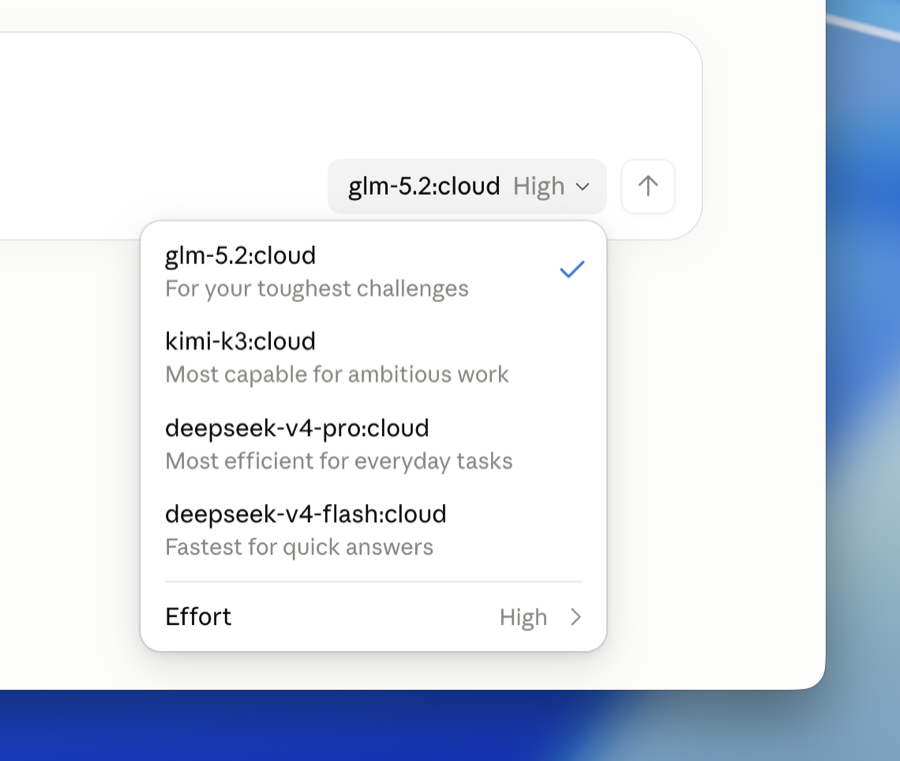
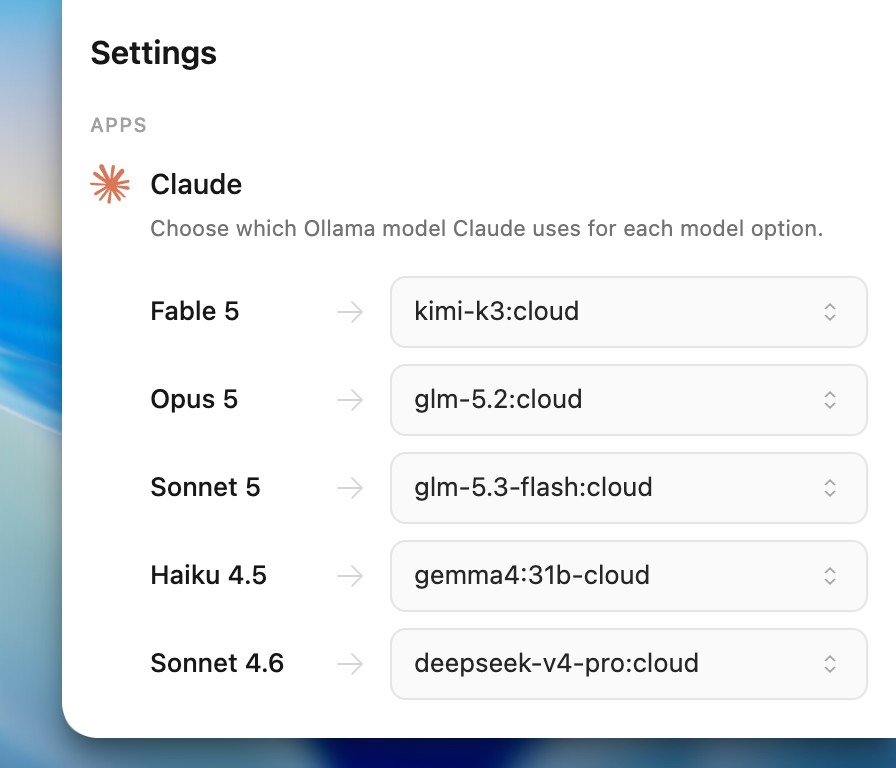
app: clarify Claude connection dialog (#18498)

diff --git a/app/ui/app/src/components/Onboarding.tsx b/app/ui/app/src/components/Onboarding.tsx
@@ -406,13 +406,13 @@ export function ClaudeConnectedIntro({ onDone }: { onDone: () => void }) {
       >
         <img
           src="/claude-connected.png"
-          alt="Ollama models in the Claude model picker"
-          width={900}
-          height={761}
+          alt="Example Claude model mappings in Ollama settings"
+          width={896}
+          height={768}
           className="h-auto w-full object-contain"
           draggable={false}
         />
-        <div className="p-6">
+        <div className="p-6 pt-8">
           <h2
             id="claude-connected-title"
             className="font-rounded text-lg font-medium leading-6 text-neutral-950 dark:text-neutral-100"
@@ -423,10 +423,10 @@ export function ClaudeConnectedIntro({ onDone }: { onDone: () => void }) {
             id="claude-connected-description"
             className="mt-2 text-[13px] leading-5 text-neutral-500 dark:text-neutral-400"
           >
-            Ollama models now show up in Claude so you can pick the right model
-            for the task.
+            Ollama automatically routes Claude models for you. Open settings in
+            Ollama to update which models are used by Claude Desktop.
           </p>
-          <div className="mt-5 flex justify-end">
+          <div className="mt-11 flex justify-end">
             <button
               type="button"
               autoFocus
